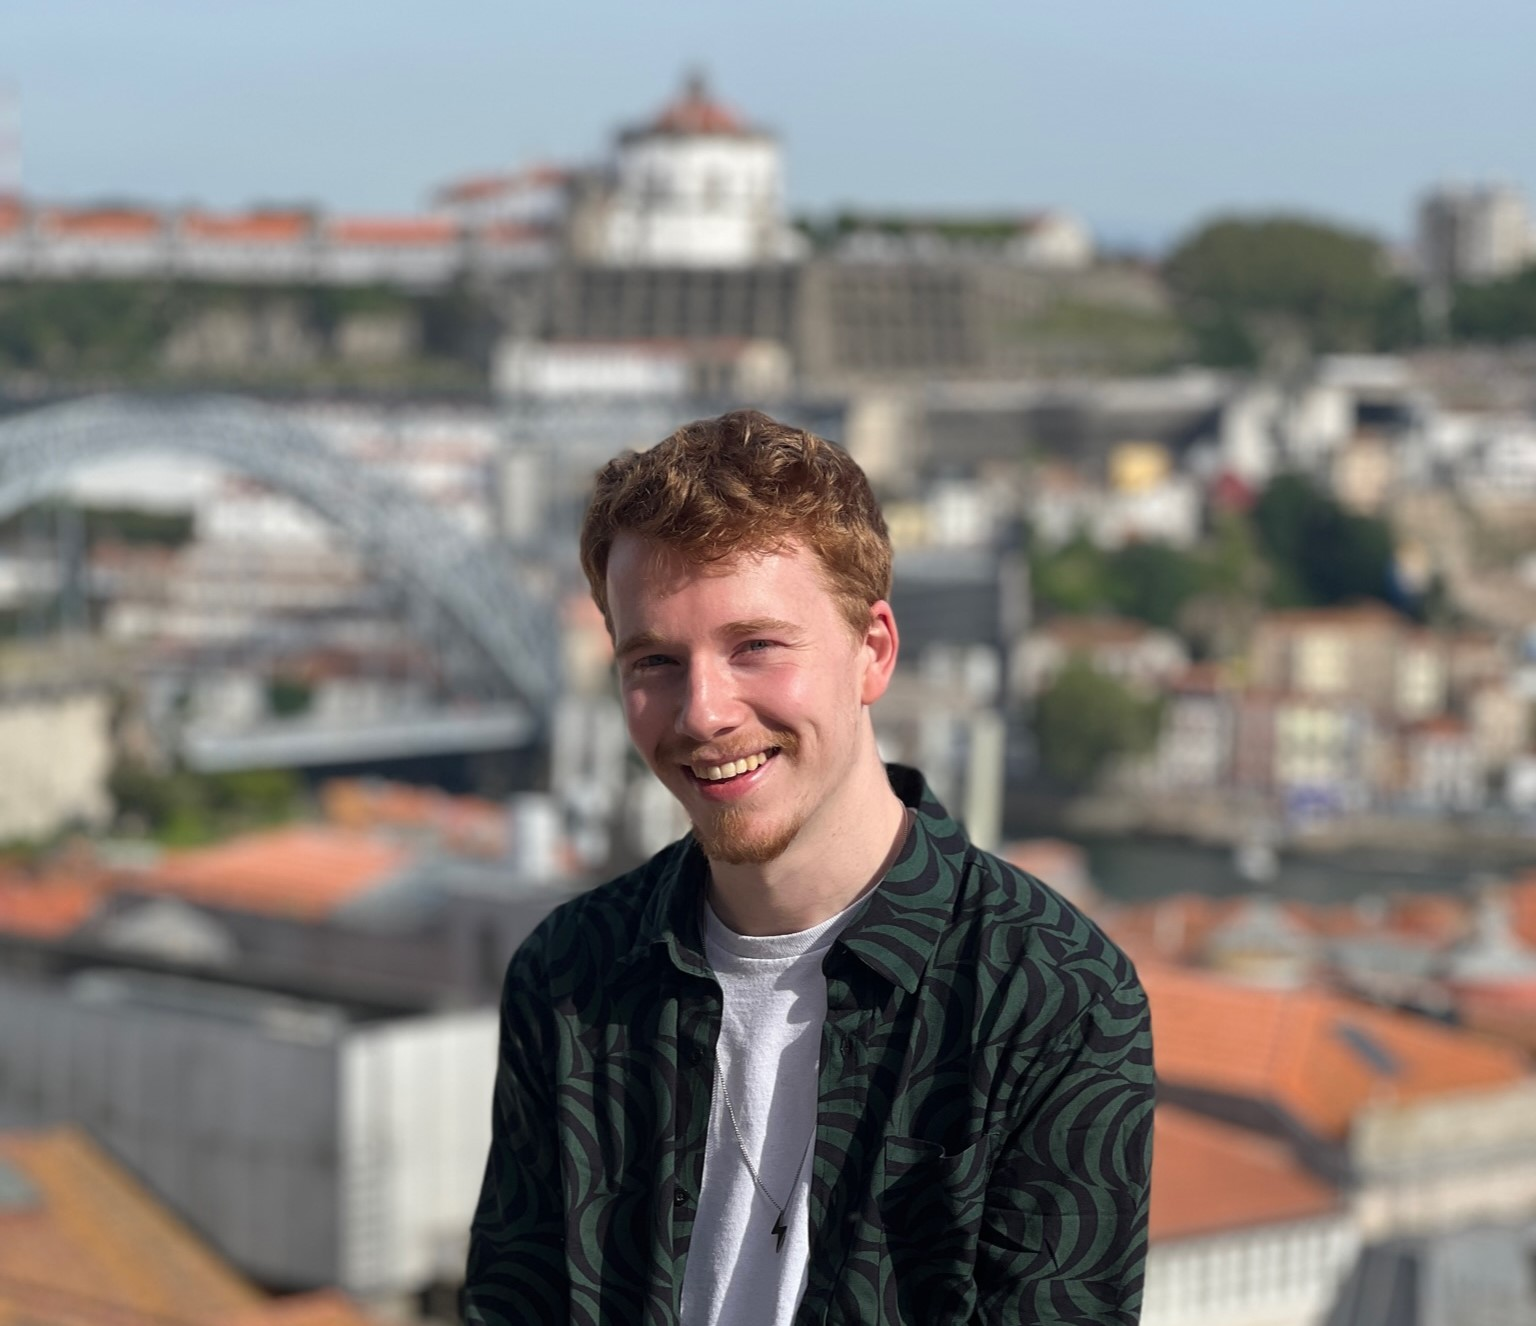
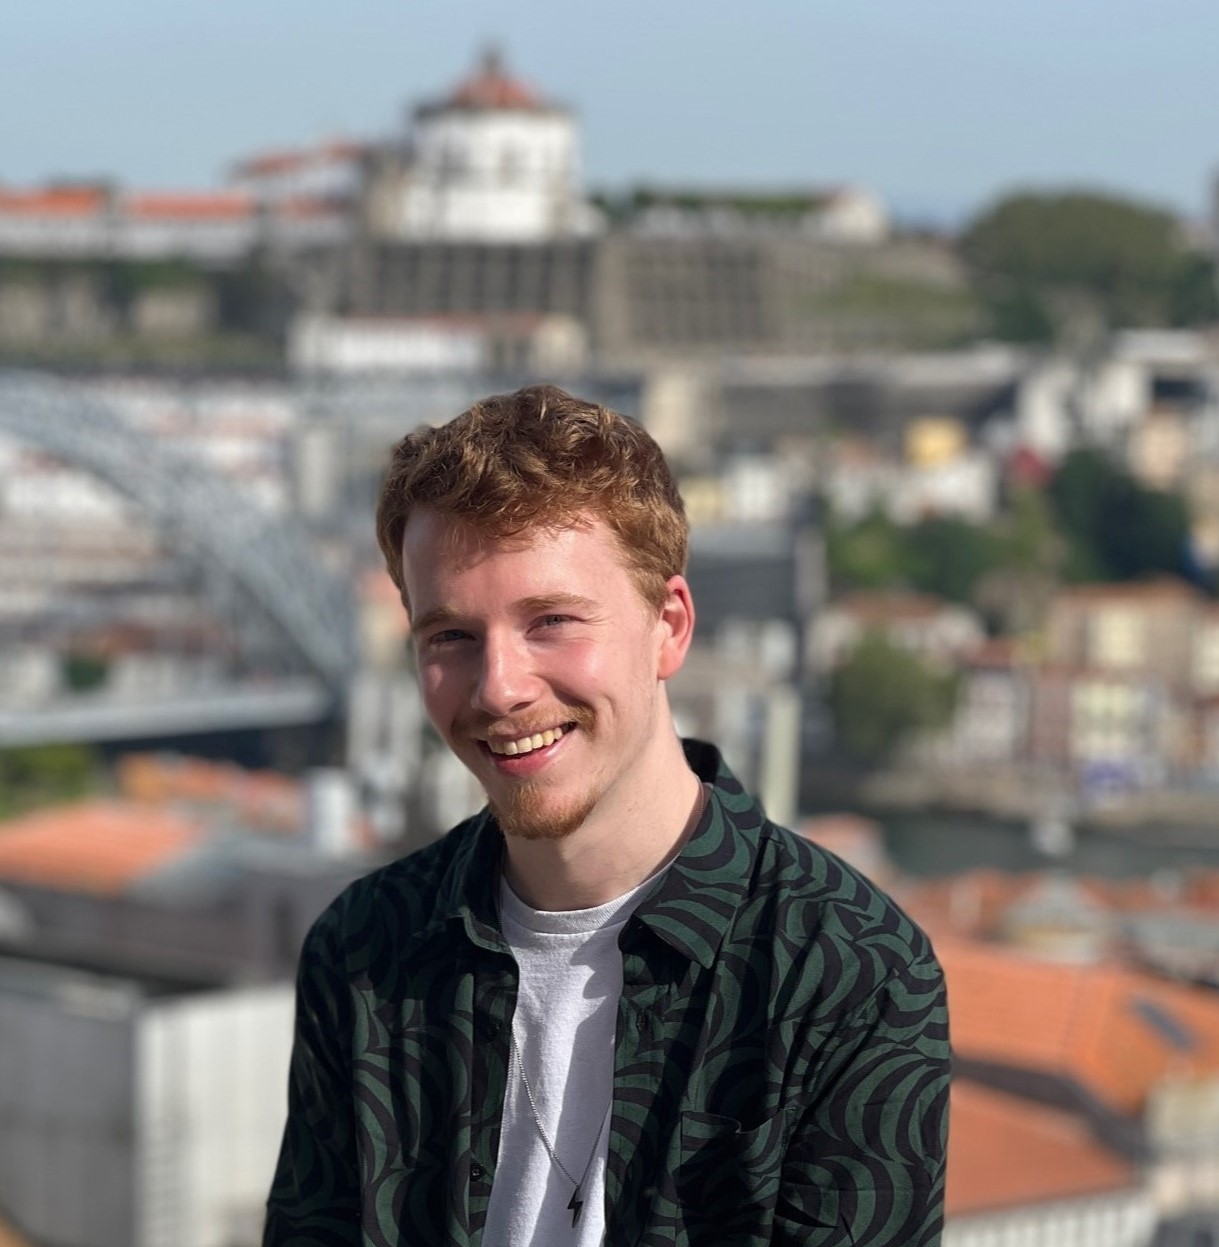
SP + Image Fix

diff --git a/app/page.tsx b/app/page.tsx
@@ -10,7 +10,7 @@ export default function Home() {
             <Top />
             <SocialIcons />
             <p className="flex justify-center py-2 italic text-gray-400">
-              Since my old site got delted, I have quickly made this temporary
+              Since my old site got deleted, I have quickly made this temporary
               one.
             </p>
           </div>

diff --git a/components/Top.tsx b/components/Top.tsx
@@ -10,7 +10,7 @@ export default function Top() {
           <Image
             src={me}
             alt="Picture of me."
-            className="rounded-full w-48 h-48"
+            className="rounded-full w-1/2 h-1/2"
           />
         </div>
         <h1 className="text-4xl flex justify-center font-bold ">
